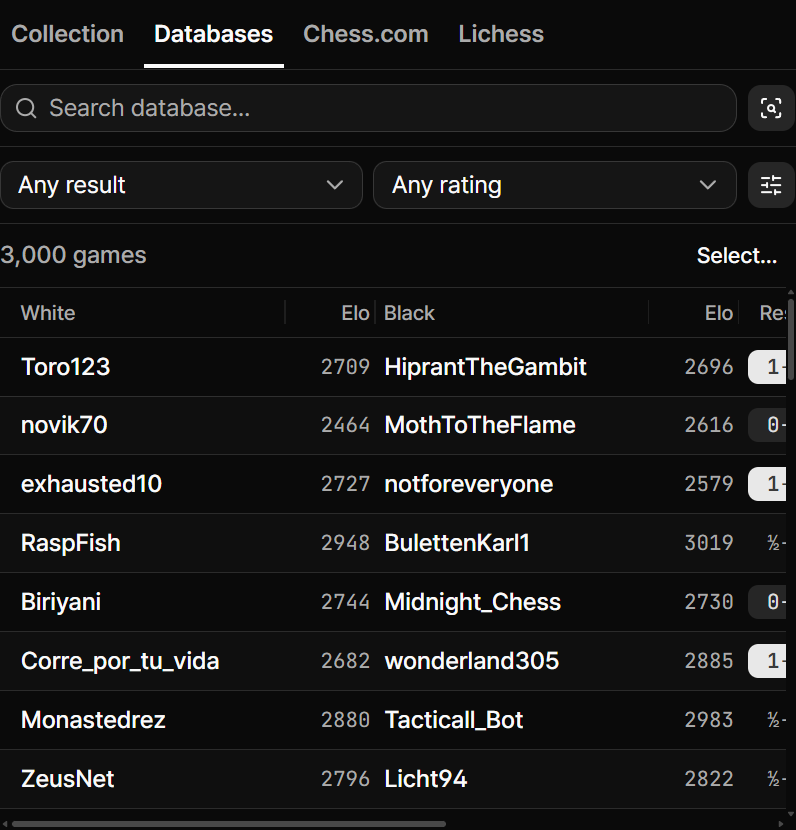
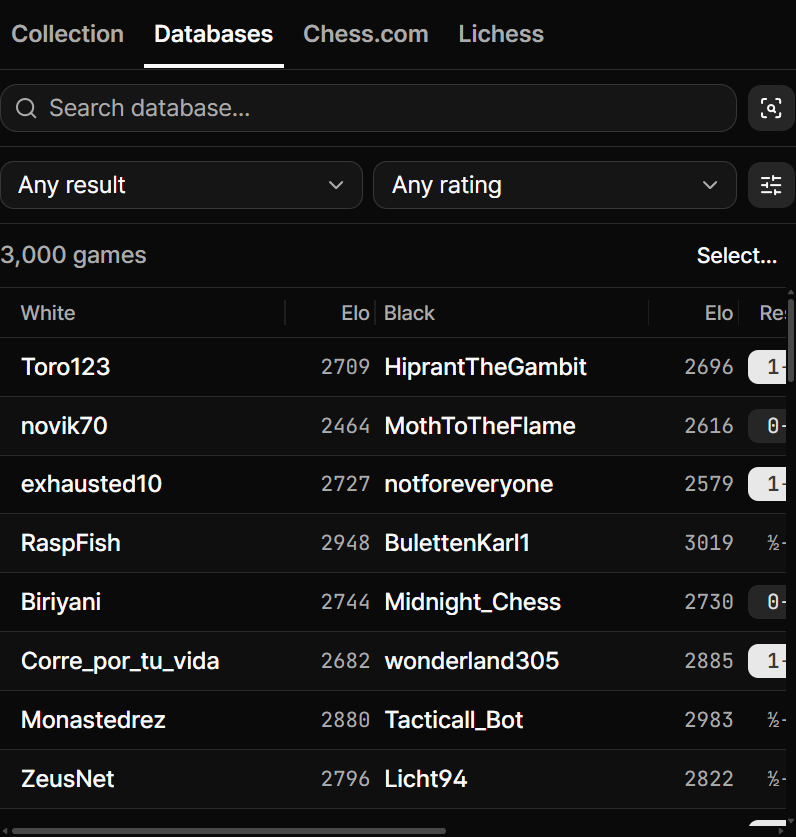
The manual's screenshots, recaptured for the release
The set was last taken on 2026-09-15, before the type ladder's second
half, the Density widening and the accuracy bar's removal landed, so the
dates on the PNGs looked current and were not. Captured against
dist-site with the engine staged, then compared three ways as the
harness requires: committed against run A, and run A against run B for
this harness's own run-to-run noise.

Sixteen of thirty-three moved for real. The largest are the ones the
type and density work would be expected to move: games 8.0% and its dark
twin 9.1%, the puzzle dashboard 6.9%, the phone note 1.3%, the phone
games list 0.50%, the workspace 0.35%, then books and the explorer
around 0.1%. games-databases changed SIZE, 796x830 to 796x837, the
databases panel having grown seven pixels.

Four kept their committed bytes: the opening map moved 7.8 to 8.0% at a
7.3 to 7.6% noise floor, and the puzzle trainer 3.0 to 5.7% at a 4.2 to
4.7% floor. Both settle rather than render, so a single diff against the
committed set cannot tell a release change from churn, and committing
them would claim this release moved something it did not. The editor and
repertoire pairs came in at 0.003 to 0.004%, antialiasing, and were left
alone too.

Two height attributes in the landing page follow: games-databases to
837, and opening-map-node from 857 to 852, which was already wrong
before this release on a shot that has not changed at all. Both were
found by checking every sized <img src="shots/..."> against its real
[…]

diff --git a/web/landing/index.html b/web/landing/index.html
@@ -820,7 +820,7 @@
                   <img
                     src="shots/opening-map-node.png"
                     width="416"
-                    height="857"
+                    height="852"
                     loading="lazy"
                     decoding="async"
                     alt="One move's panel: the position, its catalogue name, how deep the linked studies prepare it, and the studies and notes tagged onto it"
@@ -856,7 +856,7 @@
                   <img
                     src="shots/games-databases.png"
                     width="796"
-                    height="830"
+                    height="837"
                     loading="lazy"
                     decoding="async"
                     alt="The Games page's Databases tab: the search box, the result and rating filters, and the table of a 3,000-game reference database"
